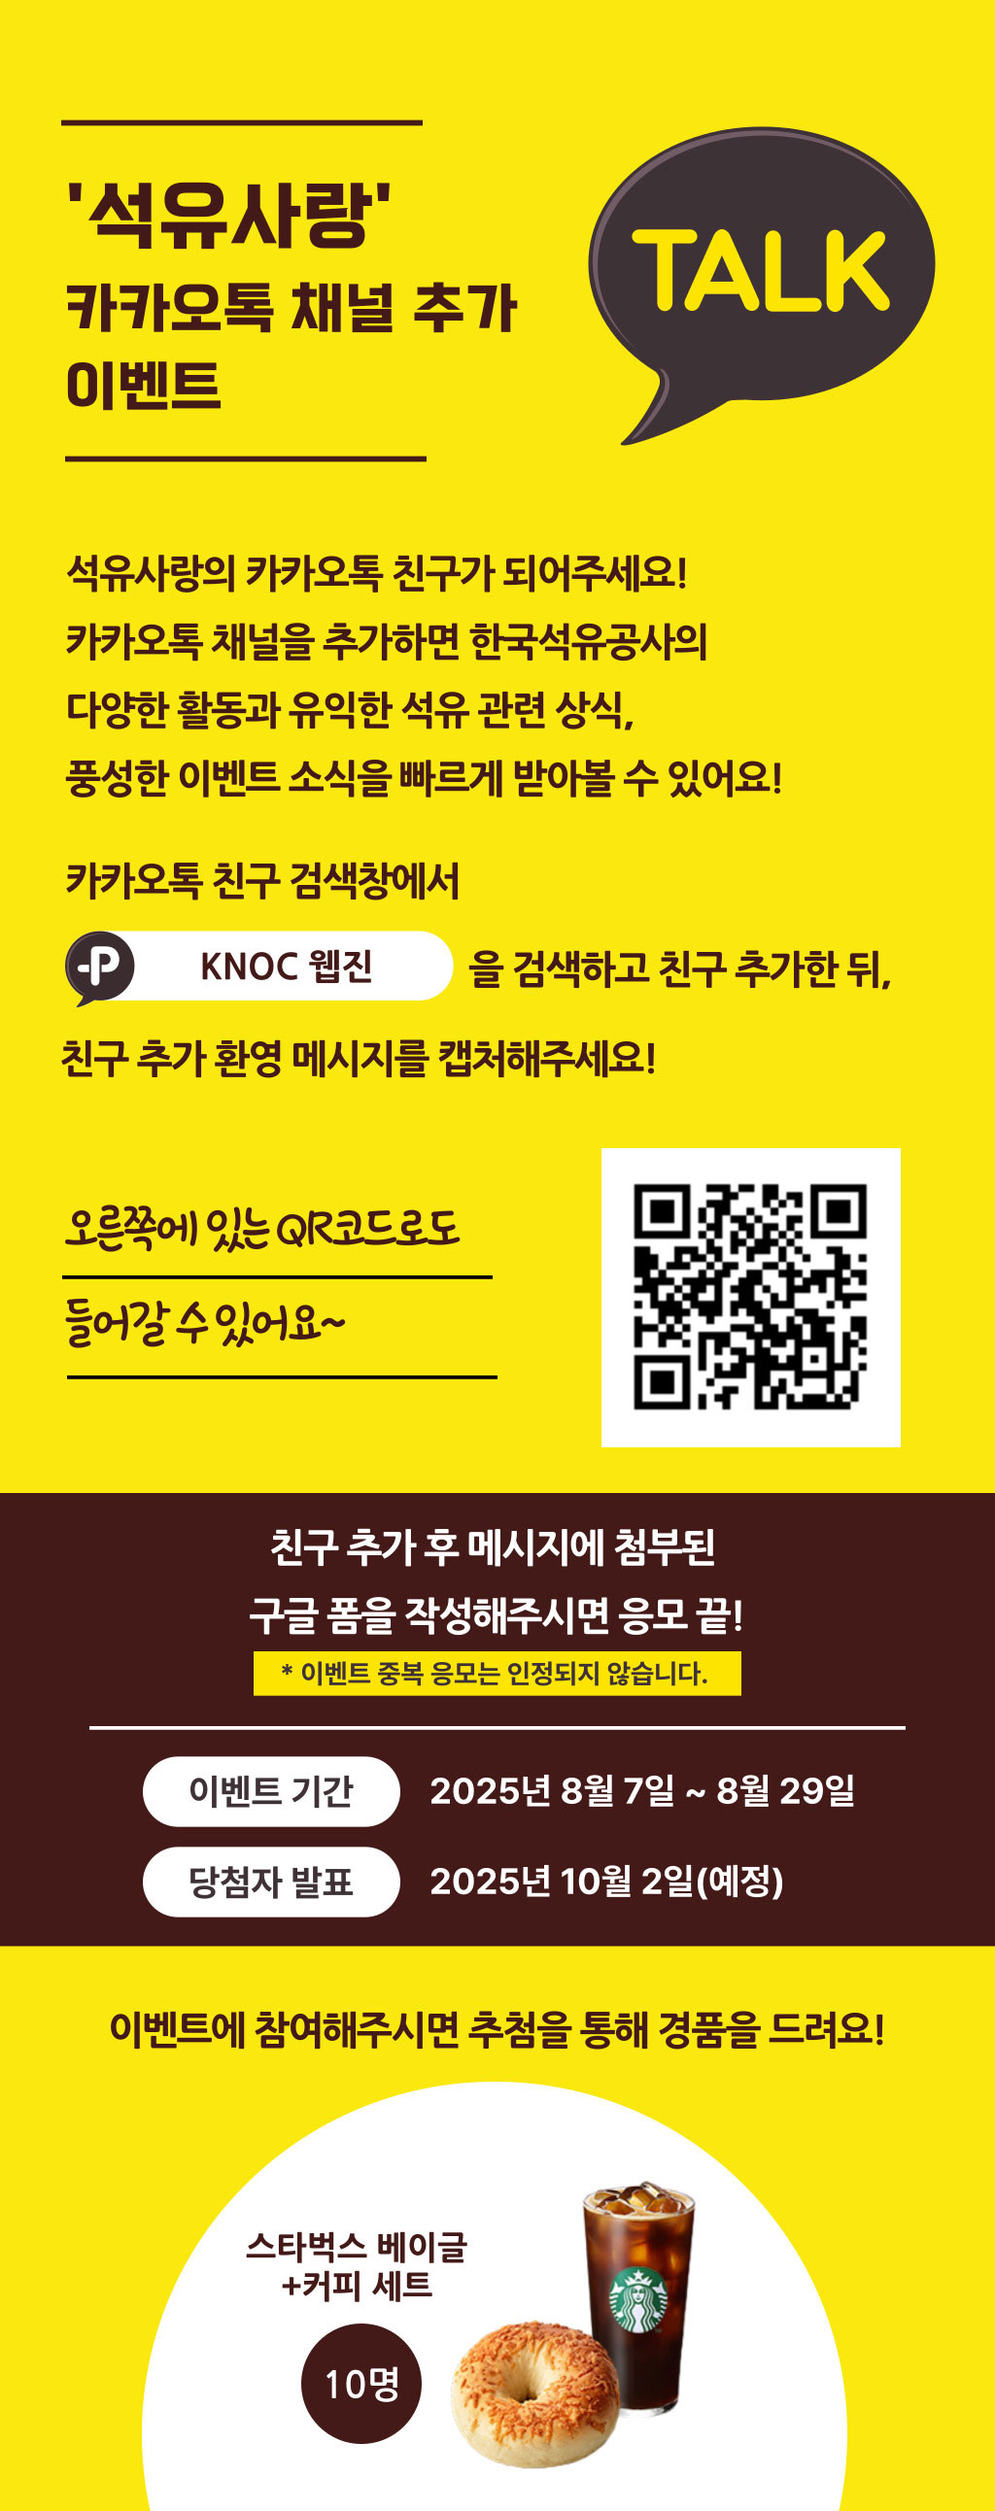
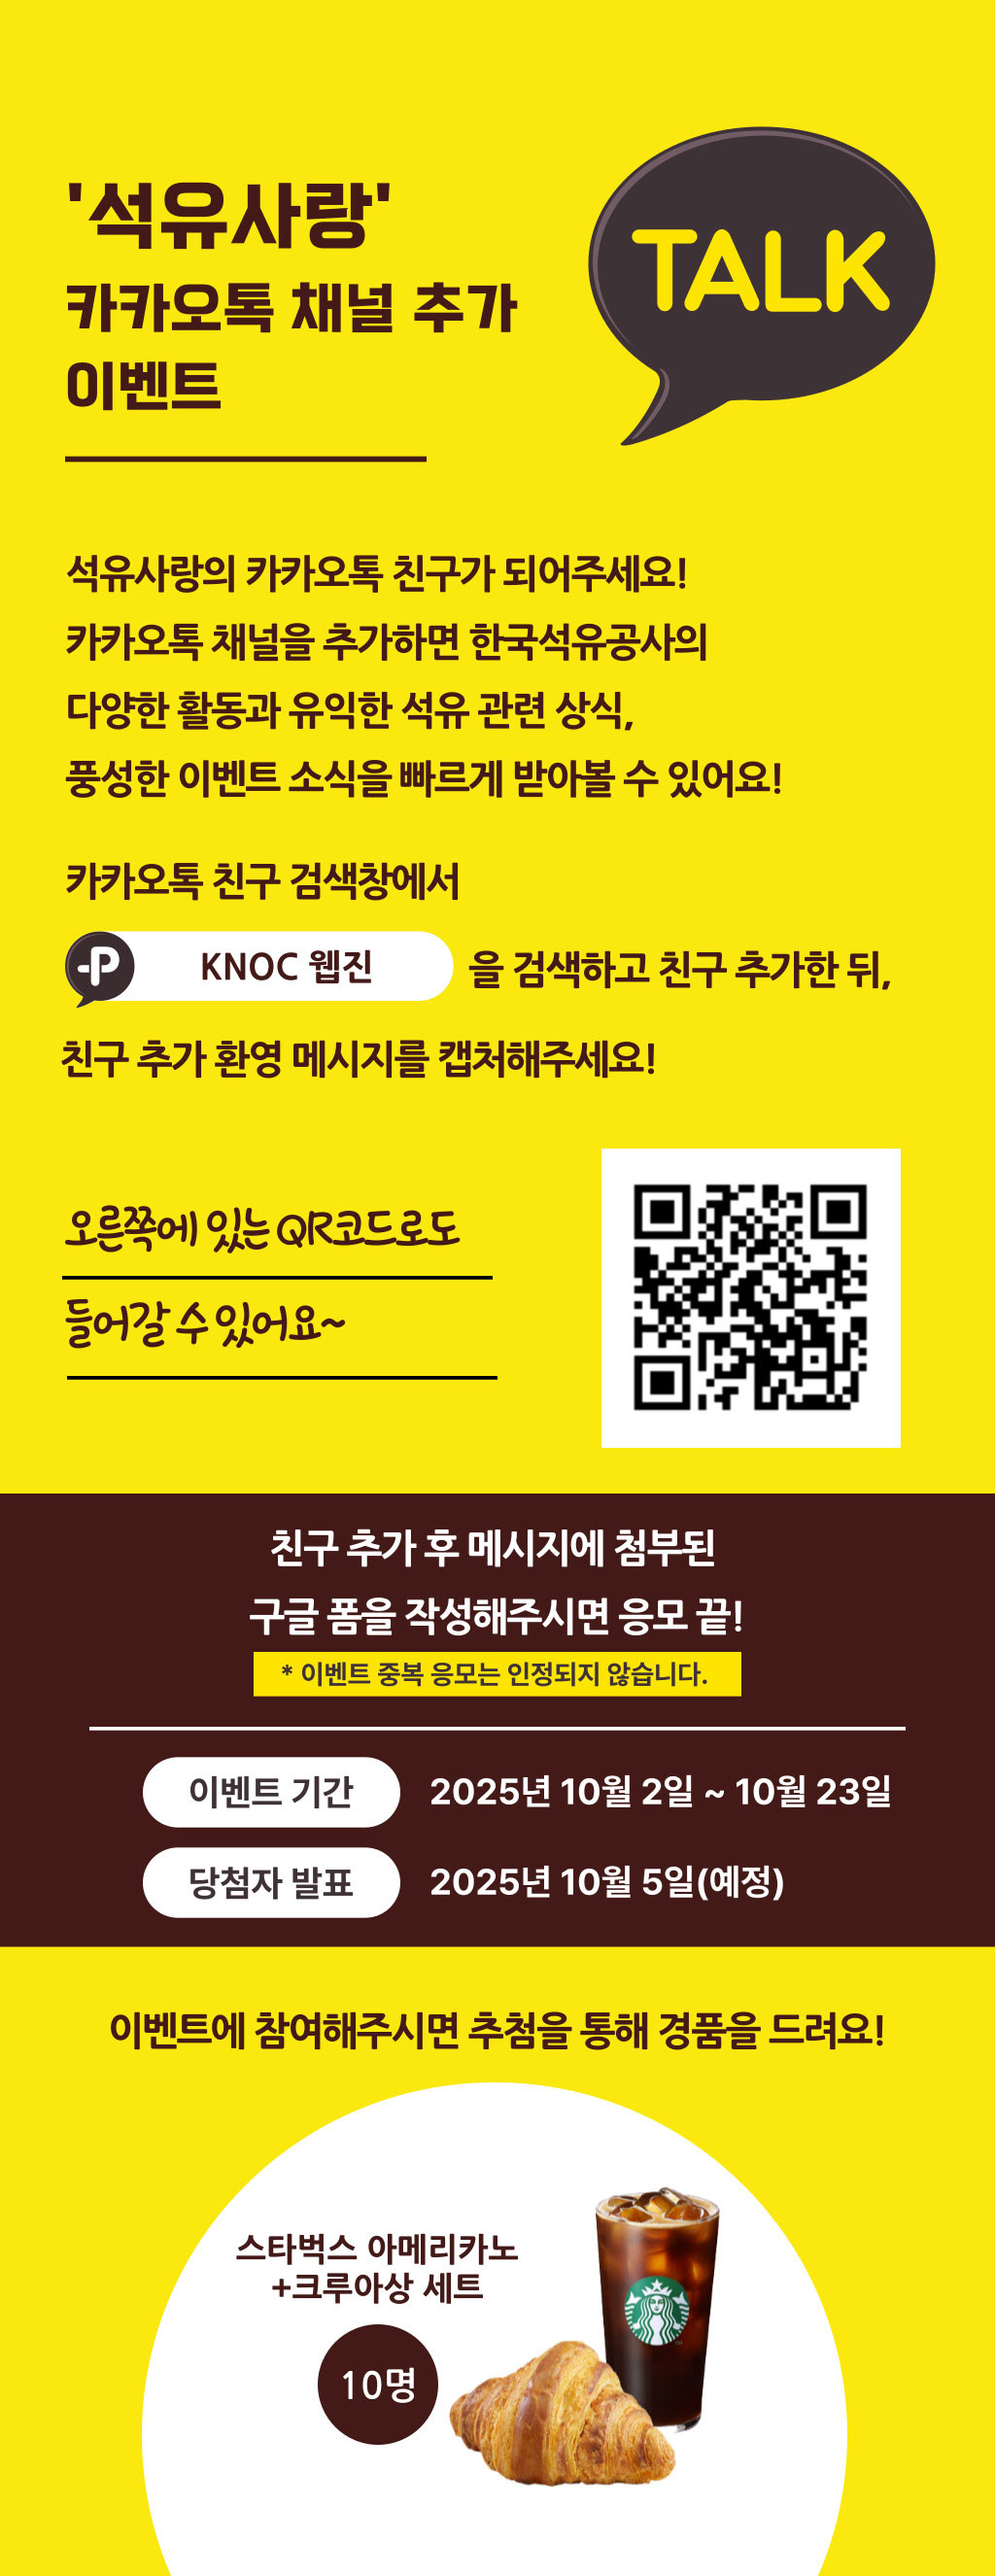
인트로수정

diff --git a/upload/EBOOK/sabo/209/sub/sub16.html b/upload/EBOOK/sabo/209/sub/sub16.html
@@ -132,9 +132,7 @@
           <div id="event" class="dot-frame">
             <div class="text-part">
               <div>
-                <a
-                  href="https://docs.google.com/forms/d/e/1FAIpQLSclNCDR_d6LbEH2R1iJzrN5NjzJOvfNONQMf8VNxGkagd9i1g/viewform?usp=dialog"
-                  target="_blank"
+                <a href="https://naver.me/5BwmbRw4" target="_blank"
                   ><div class="rounded-title">
                     <p>이벤트 응모하러 가기</p>
                   </div></a
